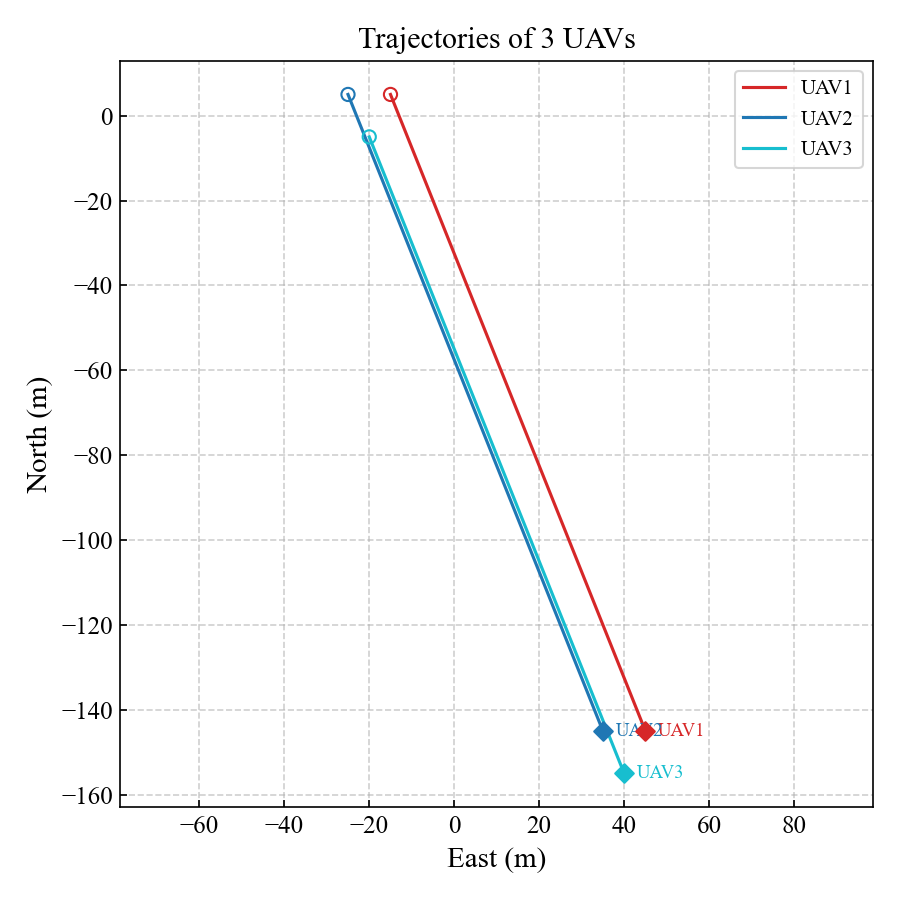
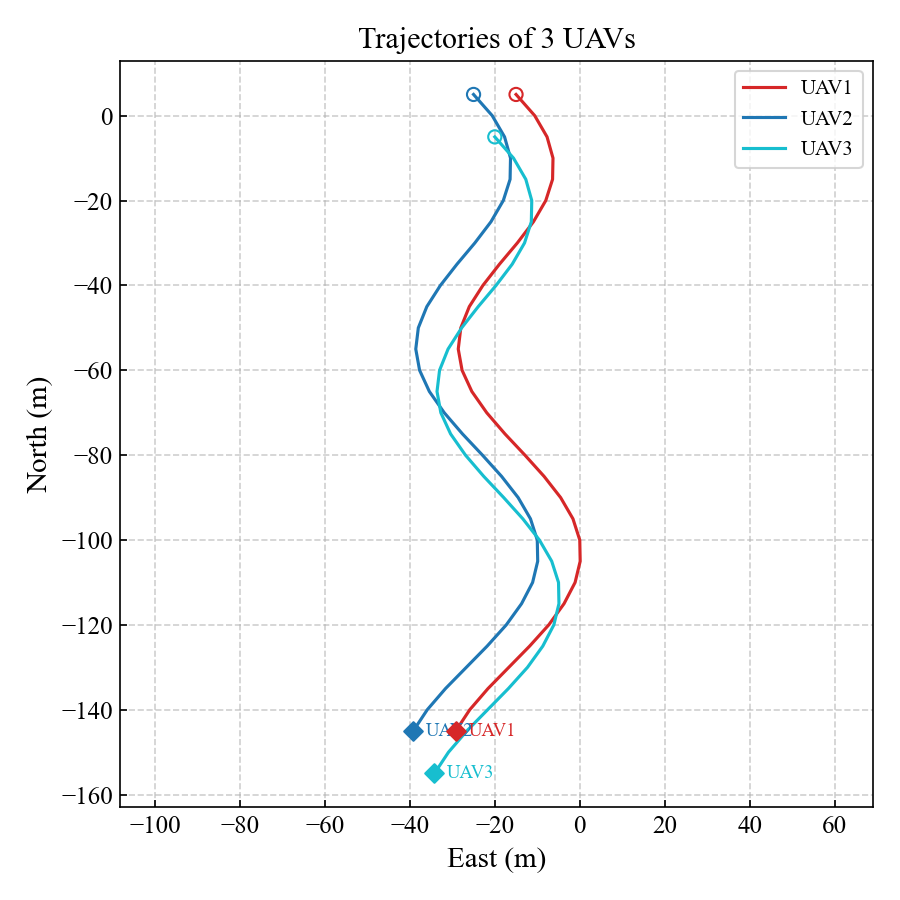
別パターンの軌道データでもある程度安定したグラフ描画ができることを確認

diff --git a/sandbox/plot_trajectory_sample.py b/sandbox/plot_trajectory_sample.py
@@ -101,4 +101,5 @@ def plot_trajectory_graph(csv_path: str):
 
 if __name__ == "__main__":
     target_csv = "sample_trajectories.csv"
-    plot_trajectory_graph(target_csv)
+    target_csv_alt = "sample_trajectories_curved.csv"
+    plot_trajectory_graph(target_csv_alt)
